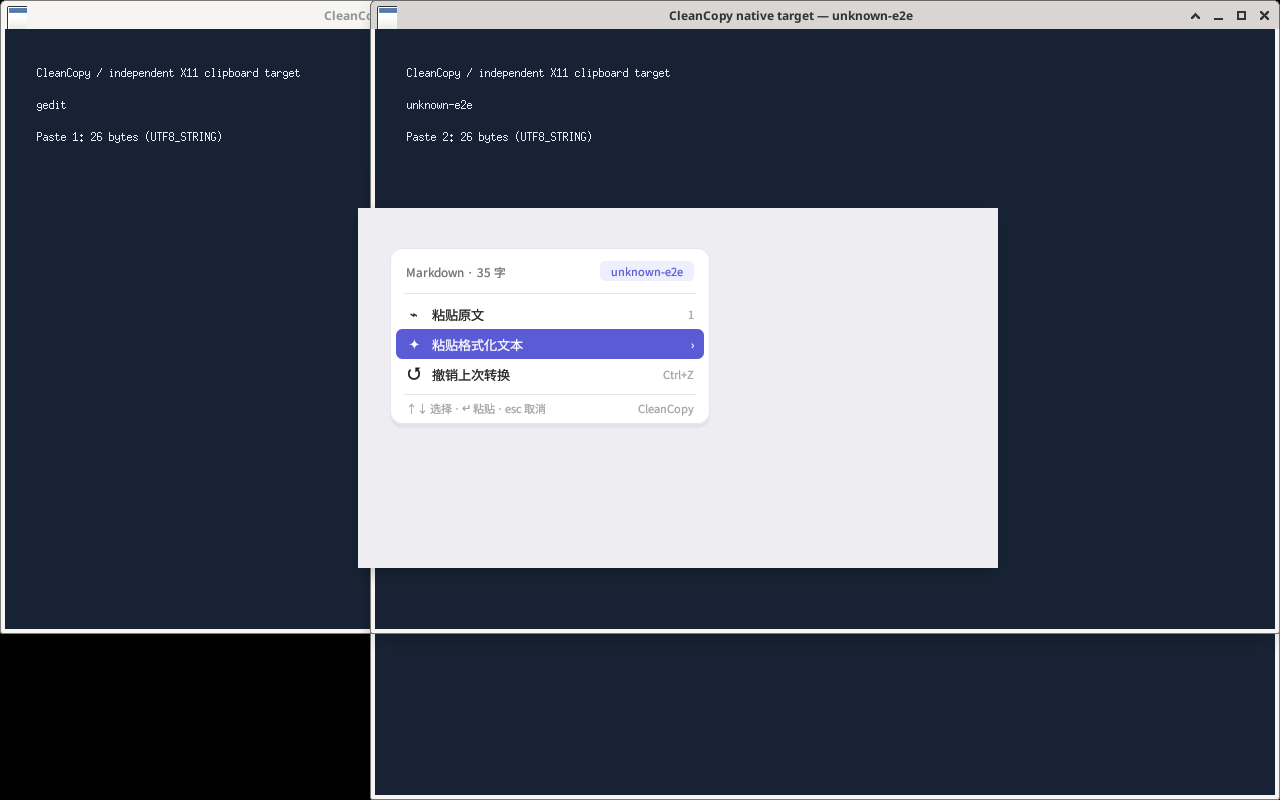
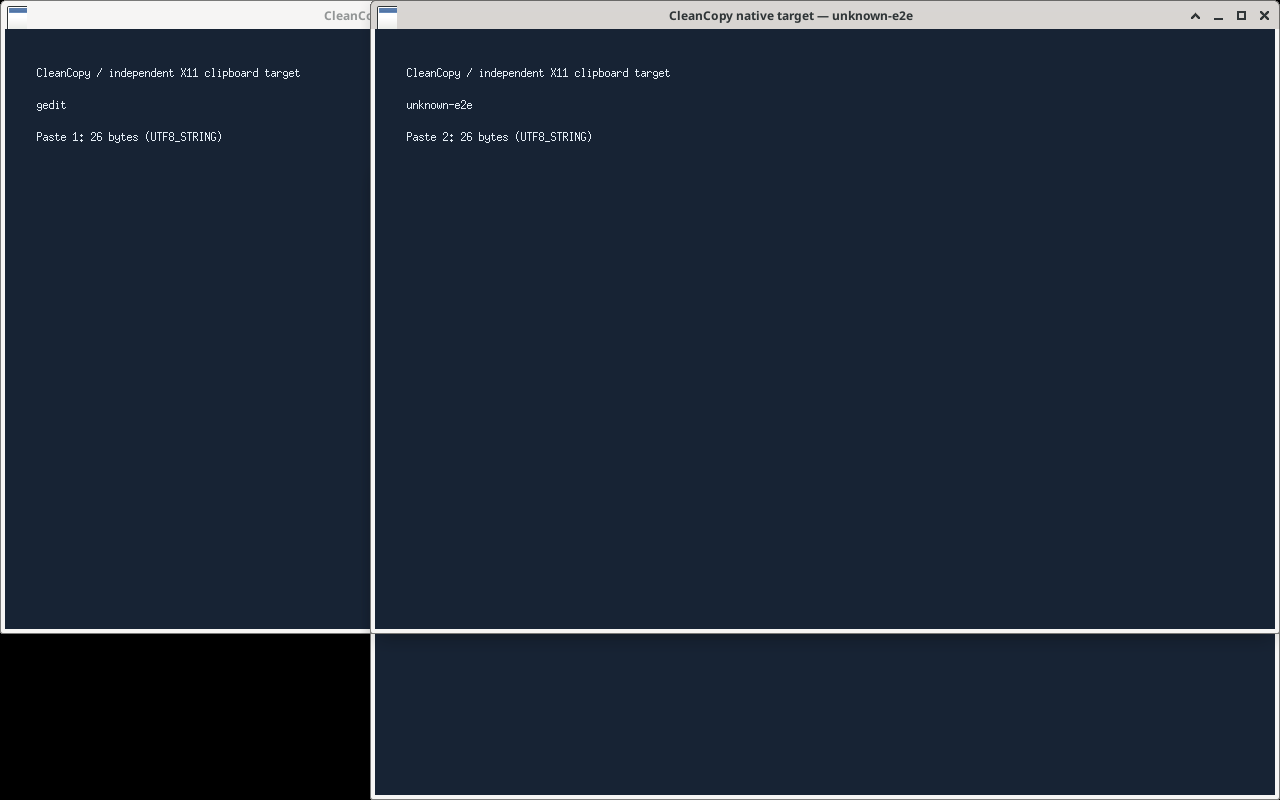
Warm up menu layouts at startup; 20-run secondary and 3 MB secondary e2e timing
The single pre-created (hidden) menu window now lays out every menu
variant during startup frames so the first press no longer pays for glyph
rasterisation (94 ms -> ~9-23 ms first press). Loading -> filled keeps
the window mapped. E2E keeps the window id from the successful xdotool
search (a second search raced fixture-window teardown).

Changed region(s): [[0.2812, 0.25, 0.7812, 0.7188]]

diff --git a/crates/cleancopy-desktop/tests/desktop_e2e.rs b/crates/cleancopy-desktop/tests/desktop_e2e.rs
@@ -125,8 +125,14 @@ impl Harness {
         } else {
             &["ctrl+shift+v"]
         });
-        wait("menu mapped", || self.menu().is_some());
-        let id = self.menu().unwrap();
+        // Keep the id from the successful search: a second `xdotool search`
+        // can come back empty while unrelated fixture windows are destroyed.
+        let mut found = None;
+        wait("menu mapped", || {
+            found = self.menu();
+            found.is_some()
+        });
+        let id = found.unwrap();
         // Real rendered contents: format-panel interior is white only when expanded.
         wait("menu painted with expected contents", || {
             let p = self.pixel(id, 580, 100);
@@ -378,7 +384,7 @@ fn desktop_runtime_matrix() {
     h.restored(&before);
     println!("PASS (b) Word target receives semantic Word HTML");
     let unknown = h.target("unknown-e2e");
-    let id = h.open(false, true, "secondary");
+    let (id, first_secondary) = h.open_measured(false, true, "secondary", true);
     assert_eq!(
         h.xdo(&["getwindowfocus"]),
         format!("{}\n", fs::read_to_string(unknown.join("window")).unwrap()).as_bytes()
@@ -511,6 +517,45 @@ fn desktop_runtime_matrix() {
     });
     assert_eq!(h.read("text/html"), html_original);
     println!("PASS S-02 real HTML-only X11 clipboard → Markdown → numbered native paste; original HTML restored");
+
+    // Secondary-menu latency distribution: the first press after launch plus
+    // 19 warm presses, all on a target with no App rule.
+    // (d) remembered a rule for `unknown`; use a second unrecognised target.
+    let fresh = h.target("timing-e2e");
+    h.fixture(b"## Secondary timing\n\n- item\n", "secondary-timing");
+    h.focus(&fresh);
+    let mut samples = vec![first_secondary];
+    for run in 2..=20 {
+        let (_, elapsed) = h.open_measured(false, true, &format!("secondary-run{run}"), false);
+        samples.push(elapsed);
+        h.close();
+    }
+    samples.sort();
+    let ms = |d: Duration| d.as_secs_f64() * 1000.0;
+    println!(
+        "MEASURE secondary x{} (first press after launch = {:.2} ms): min {:.2} / median {:.2} / max {:.2} ms",
+        samples.len(),
+        ms(first_secondary),
+        ms(samples[0]),
+        ms((samples[9] + samples[10]) / 2),
+        ms(samples[samples.len() - 1])
+    );
+    // N-1: a 3 MB clipboard on an unrecognised target still shows the
+    // secondary menu first and fills it in afterwards.
+    let mut big = b"## Large secondary\n\n".to_vec();
+    big.resize(3 * 1024 * 1024, b'x');
+    h.fixture(&big, "secondary-3mb");
+    h.focus(&fresh);
+    let ready = h.metadata_completions();
+    let (_, elapsed) = h.open_measured(false, true, "secondary-3MB", false);
+    assert!(
+        elapsed <= Duration::from_millis(100),
+        "3MB secondary exceeded 100 ms: {elapsed:?}"
+    );
+    wait("3MB secondary metadata", || {
+        h.metadata_completions() > ready
+    });
+    h.close();
 
     for mib in [3, 5] {
         let mut source = b"## Large clipboard\n\n".to_vec();

diff --git a/crates/cleancopy-desktop/src/linux.rs b/crates/cleancopy-desktop/src/linux.rs
@@ -928,6 +928,47 @@ struct LinuxApp {
     last_sync: Instant,
 }
 impl LinuxApp {
+    fn warm_up_menu(&self, ctx: &eframe::egui::Context, frame: u8) {
+        use crate::engine::{Choice, FormatItem, MenuKind, MenuModel};
+        let config = self.driver.engine.config();
+        let formats: Vec<FormatItem> = config
+            .secondary_items
+            .iter()
+            .enumerate()
+            .map(|(index, item)| FormatItem {
+                format: item.format,
+                shortcut: u8::try_from(index + 2).unwrap_or(u8::MAX),
+                enabled: true,
+                muted: false,
+            })
+            .collect();
+        let model = MenuModel {
+            id: u64::MAX,
+            kind: if frame.is_multiple_of(2) {
+                MenuKind::Secondary
+            } else {
+                MenuKind::Full
+            },
+            app: Default::default(),
+            formats,
+            default_choice: Choice::Original,
+            content_label: if frame > 3 {
+                "正在读取剪贴板…".into()
+            } else {
+                "Markdown".into()
+            },
+            source_chars: 1_234_567,
+            converting: false,
+            original_enabled: true,
+            undo_enabled: true,
+            show_remember: true,
+            target_unrecognized: true,
+            loading: frame > 3,
+            remember: false,
+        };
+        // Throwaway state: never touches the real menu's highlight or events.
+        let _ = crate::ui::menus::MenuState::default().show(ctx, &model, false);
+    }
     fn tray_action(&mut self, action: crate::ui::menus::TrayAction) -> Result<()> {
         use crate::ui::menus::TrayAction;
         let t = self.driver.engine.platform().now();
@@ -1010,7 +1051,9 @@ impl eframe::App for LinuxApp {
         }
         let model = self.driver.engine.platform().menu.clone();
         let id = model.as_ref().map(|m| m.id);
-        if id != self.shown || id.is_none() {
+        // Map only when a menu appears. Loading → filled keeps the mapped
+        // window (re-mapping mid-WM-reparent made it flicker invisible).
+        if id.is_some() != self.shown.is_some() || id.is_none() {
             let p = self.driver.engine.platform();
             if id.is_some() {
                 let (x, y) = p.menu_position(640, 360);
@@ -1037,6 +1080,12 @@ impl eframe::App for LinuxApp {
             let _ = std::io::stdout().flush();
         }
         self.frames = self.frames.saturating_add(1);
+        if model.is_none() && (2..=5).contains(&self.frames) {
+            // Warm-up while the pre-created window is still hidden: lay out
+            // every menu variant once so glyph rasterisation and layout caches
+            // are ready before the first hotkey press (the first-press outlier).
+            self.warm_up_menu(ctx, self.frames);
+        }
         if let Some(model) = model {
             for event in self.menu.show(ctx, &model, false) {
                 let t = self.driver.engine.platform().now();

diff --git a/crates/cleancopy-desktop/src/engine.rs b/crates/cleancopy-desktop/src/engine.rs
@@ -913,6 +913,22 @@ fn render(original: &Snapshot, format: Format, style: cleancopy_core::NumberingS
     }
 }
 
+/// Markdown detection looks at a bounded prefix so huge clipboards do not
+/// delay the menu (full detection of 3 MB took ~0.7 s in debug builds).
+const DETECT_PREFIX_BYTES: usize = 256 * 1024;
+fn detect_prefix(text: &str) -> &str {
+    if text.len() <= DETECT_PREFIX_BYTES {
+        return text;
+    }
+    let mut end = DETECT_PREFIX_BYTES;
+    while !text.is_char_boundary(end) {
+        end -= 1;
+    }
+    // Cut at a line boundary so a partial line cannot look like syntax.
+    let cut = text[..end].rfind('\n').map_or(end, |i| i + 1);
+    &text[..cut]
+}
+
 #[cfg(test)]
 mod tests {
     use super::*;
@@ -1154,20 +1170,4 @@ mod tests {
             assert!(engine.menu.is_some());
         }
     }
-}
-
-/// Markdown detection looks at a bounded prefix so huge clipboards do not
-/// delay the menu (full detection of 3 MB took ~0.7 s in debug builds).
-const DETECT_PREFIX_BYTES: usize = 256 * 1024;
-fn detect_prefix(text: &str) -> &str {
-    if text.len() <= DETECT_PREFIX_BYTES {
-        return text;
-    }
-    let mut end = DETECT_PREFIX_BYTES;
-    while !text.is_char_boundary(end) {
-        end -= 1;
-    }
-    // Cut at a line boundary so a partial line cannot look like syntax.
-    let cut = text[..end].rfind('\n').map_or(end, |i| i + 1);
-    &text[..cut]
 }
